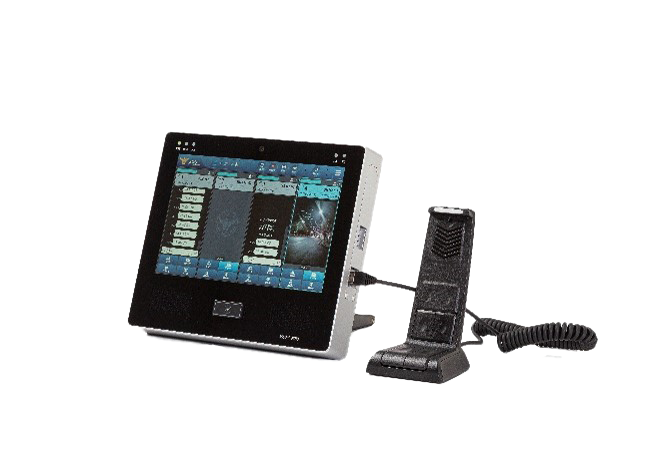
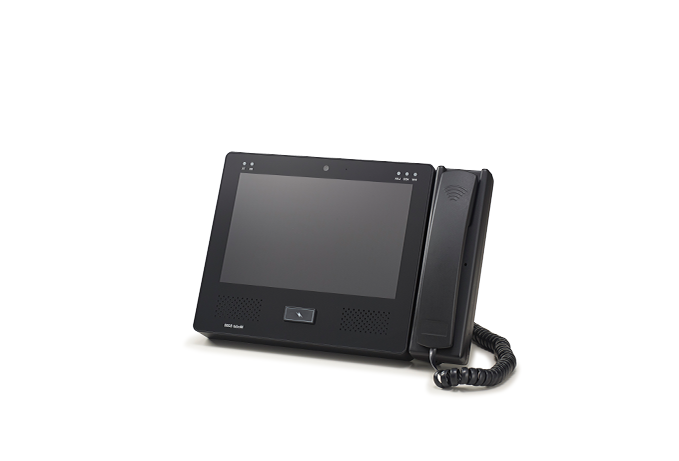
S380 detail page update

Changed region(s): [[0.181, 0.2788, 0.905, 0.8673]]

diff --git a/s380_detail/index.html b/s380_detail/index.html
@@ -176,7 +176,7 @@
 
                     <div class="module-item">
                         <div class="product-image">
-                            <img src="./assets/modul1.png"
+                            <img src="./assets/modul2.png"
                                 alt="S380 기본형">
                         </div>
 
@@ -191,7 +191,7 @@
                         <div class="product-spec">
                             <dl>
                                 <dt>APPLICATION</dt>
-                                <dd>2작사 대대급 무선관제 소형 지령대</dd>
+                                <dd>탁상·고정형 표준형 통신 단말기</dd>
                             </dl>
 
                             <dl>
@@ -266,13 +266,13 @@
 
                 <div class="badge-grid">
                     <div>
-                        <strong>안랩 V3 전용 백신 탑재</strong>
-                        <span>독자적인 엔진 기반의 강력한 악성코드 대응</span>
+                        <strong>OnAV for Linux Desktop</strong>
+                        <span>리눅스 OS가 적용된 단말 보호를 위한 안티바이러스 솔루션입니다.</span>
                     </div>
 
                     <div>
-                        <strong>KCMVP 보안 알고리즘 탑재</strong>
-                        <span>고정용 단말기에는 국내최초 데이터 암호화 알고리즘 KCMVP탑재 제공</span>
+                        <strong>국가보안기술연구소가 개발한 구름OS 기반 플랫폼</strong>
+                        <span>국가 정보 인프라의 외산 OS 종속 문제 해결</span>
                     </div>
 
                     <div>
@@ -304,8 +304,7 @@
                     <p class="eyebrow">WHY S380 · INDUSTRIAL QUALITY</p>
 
                     <h2>
-                        고품질 원재료에서 시작되는<br>
-                        S380의 안정성
+                        검증된 x86 구름OS 기반의 안정적인 플랫폼
                     </h2>
 
                     <p>高 품질 원재료를 기반으로 생산된 제품입니다.</p>
@@ -350,7 +349,7 @@
                         <div>
                             <b>04</b>
                             <span>
-                                <strong>7세대 고성능 메인보드</strong>
+                                <strong>x86 고성능 메인보드</strong>
                                 멀티 채널 운용 / H.265영상 처리
                             </span>
                         </div>
@@ -548,9 +547,6 @@
 
                     <dt>외부단자</dt>
                     <dd>2Port (USB 2.0  C type, USB 2.0  A type)</dd>
-
-                    <dt>HDD</dt>
-                    <dd>mSATA SSD 256GB</dd>
 
                     <dt>유선 LAN</dt>
                     <dd>2 x Intel 10 / 100 / 1000 Mbps</dd>
